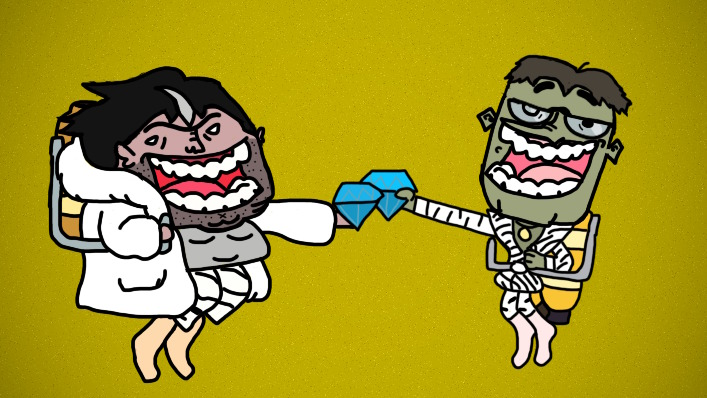
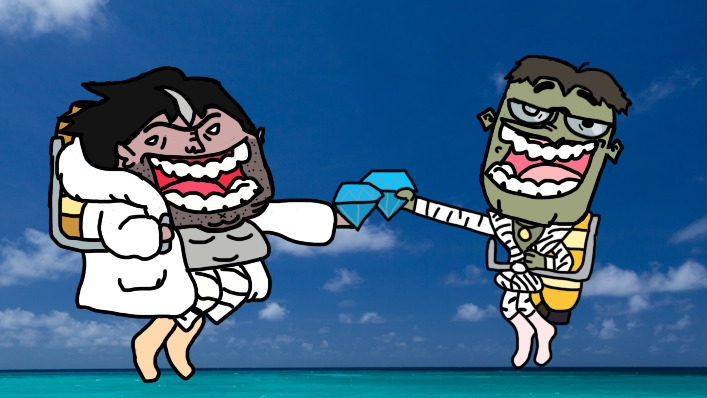
feat: Agregar pantalla de resultado (cancelado)
Tambien se han modificado para que los logros que todavia no esten activo no muestren su información y el diseño final del primer logro

diff --git a/frontend/src/data/achievements.ts b/frontend/src/data/achievements.ts
@@ -6,6 +6,13 @@ export interface Achievement {
 	technicalDescription: string;
 	lore: string;
 	image: string;
+	active: boolean;
+}
+
+export interface UnactiveAchievement {
+	title: string;
+	technicalDescription: string;
+	image: string;
 }
 
 export const ACHIEVEMENTS: Achievement[] = [
@@ -14,7 +21,8 @@ export const ACHIEVEMENTS: Achievement[] = [
 		title: "El Lobo de Chaos INC",
 		technicalDescription: "Gana una partida siendo Becario.",
 		lore: "Ya no tendrás que revisar cada dia si te han puesto pegamento ultra fuerte en tu taza de café.",
-		image: "/achievements/ach_1_sketch.png",
+		image: "/achievements/ach_1.png",
+		active: true,
 	},
 	{
 		id: "ach_win_secretary",
@@ -22,6 +30,7 @@ export const ACHIEVEMENTS: Achievement[] = [
 		technicalDescription: "Gana una partida siendo Secretario.",
 		lore: "Ser la mascota del profesor no te hacía mejor estudiante en la escuela, que lo sepas.",
 		image: "/achievements/ach_2_sketch.png",
+		active: true,
 	},
 	{
 		id: "ach_win_boss",
@@ -29,6 +38,7 @@ export const ACHIEVEMENTS: Achievement[] = [
 		technicalDescription: "Gana una partida siendo Jefe.",
 		lore: "¿Evasión de impuestos, jornadas de 14 horas, maltrato laboral? No pienso hablar sin mi abogado.",
 		image: "/achievements/ach_3_sketch.png",
+		active: true,
 	},
 	{
 		id: "ach_win_unionist",
@@ -36,6 +46,7 @@ export const ACHIEVEMENTS: Achievement[] = [
 		technicalDescription: "Gana una partida siendo Sindicalista.",
 		lore: "Casualmente a nadie le parecia buena idea hacer una huelga japonesa. Se nota la cultura española...",
 		image: "/achievements/ach_placeholder.png",
+		active: true,
 	},
 	{
 		id: "ach_last_unionist",
@@ -44,6 +55,7 @@ export const ACHIEVEMENTS: Achievement[] = [
 			"Gana siendo el último Sindicalista vivo en una partida de 6 jugadores.",
 		lore: "Tus compañeros renunciaron en la batalla por el convenio, pero tú te quedaste hasta el final como un héroe.",
 		image: "/achievements/ach_5_sketch.png",
+		active: true,
 	},
 	{
 		id: "ach_inherited_boss",
@@ -52,6 +64,7 @@ export const ACHIEVEMENTS: Achievement[] = [
 			"Gana una partida habiendo sido ascendido a Jefe Heredado.",
 		lore: "Finalmente podrás enchufar a tus primos en la empresa, la tía Juana ya estaba empezando a insistir demasiado.",
 		image: "/achievements/ach_6_sketch.png",
+		active: true,
 	},
 	{
 		id: "ach_no_passives",
@@ -60,6 +73,7 @@ export const ACHIEVEMENTS: Achievement[] = [
 			"Gana una partida sin haber equipado ninguna habilidad pasiva.",
 		lore: "Las pasivas están sobrevaloradas, no necesitas mas que habilidad y mentalidad de tiburon.",
 		image: "/achievements/ach_placeholder.png",
+		active: false,
 	},
 	{
 		id: "ach_triple_kill",
@@ -67,6 +81,7 @@ export const ACHIEVEMENTS: Achievement[] = [
 		technicalDescription: "Elimina a 3 jugadores en una misma partida.",
 		lore: "Los abogados y empleados de Hacienda te miran con temor.",
 		image: "/achievements/ach_placeholder.png",
+		active: false,
 	},
 	{
 		id: "ach_failed_mass_attack",
@@ -75,6 +90,7 @@ export const ACHIEVEMENTS: Achievement[] = [
 			"Lanza un ataque masivo en una partida de 6 personas y que todos lo esquiven o bloqueen.",
 		lore: "La verdad... No se qué decirte, tienes una suerte horrible.",
 		image: "/achievements/ach_placeholder.png",
+		active: false,
 	},
 	{
 		id: "ach_play_10",
@@ -82,6 +98,7 @@ export const ACHIEVEMENTS: Achievement[] = [
 		technicalDescription: "Juega 10 partidas.",
 		lore: "Parece que le estás cogiendo el gusto a esta empresa.",
 		image: "/achievements/ach_placeholder.png",
+		active: false,
 	},
 	{
 		id: "ach_play_25",
@@ -89,6 +106,7 @@ export const ACHIEVEMENTS: Achievement[] = [
 		technicalDescription: "Juega 25 partidas.",
 		lore: "Ya te has aprendido de memoria las plantas en las que el baño está averiado.",
 		image: "/achievements/ach_placeholder.png",
+		active: false,
 	},
 	{
 		id: "ach_gitana_luck",
@@ -97,6 +115,7 @@ export const ACHIEVEMENTS: Achievement[] = [
 			"Roba una tercera carta con la pasiva 'Buenaventura Gitana' 4 rondas seguidas.",
 		lore: "Los astros se han alineado y en vez de tocarte la lotería, te ha tocado un logro en un juego web. ¡No te pongas triste!",
 		image: "/achievements/ach_placeholder.png",
+		active: false,
 	},
 	{
 		id: "ach_no_defense",
@@ -105,6 +124,7 @@ export const ACHIEVEMENTS: Achievement[] = [
 			"Gana una partida sin haber esquivado o bloqueado ningún ataque.",
 		lore: "Despues de tantos años en el gimnasio, que te lancen un microondas ya ni te afecta.",
 		image: "/achievements/ach_placeholder.png",
+		active: false,
 	},
 	{
 		id: "ach_one_hp_clutch",
@@ -113,5 +133,6 @@ export const ACHIEVEMENTS: Achievement[] = [
 			"Gana una partida habiendo quedado con 1 solo punto de vida.",
 		lore: "Tienes el ojo del tigre o simplemente mucha suerte.",
 		image: "/achievements/ach_placeholder.png",
+		active: false,
 	},
 ];

diff --git a/frontend/src/components/profile/ProfileAchievements.tsx b/frontend/src/components/profile/ProfileAchievements.tsx
@@ -1,7 +1,11 @@
 // src/components/profile/ProfileAchievements.tsx
 
 import { useEffect, useState } from "react";
-import { ACHIEVEMENTS, type Achievement } from "../../data/achievements.ts";
+import {
+	ACHIEVEMENTS,
+	type Achievement,
+	type UnactiveAchievement,
+} from "../../data/achievements.ts";
 import type { UserAchievement } from "../../types/api.ts";
 import styles from "./ProfileAchievements.module.css";
 import viewStyles from "./RegisteredProfileView.module.css";
@@ -19,6 +23,12 @@ export default function ProfileAchievements({
 
 	const getImagePath = (path: string) =>
 		path.startsWith("/") ? path : `/${path}`;
+
+	const unactiveAch: UnactiveAchievement = {
+		title: "Proximamente...",
+		technicalDescription: "¡Estamos trabajando en ello!",
+		image: "/achievements/ach_placeholder.png",
+	};
 
 	const unlockedMap = new Map<string, string>();
 	userAchievements.forEach((ach) => {
@@ -69,12 +79,20 @@ export default function ProfileAchievements({
 								<div
 									key={ach.id}
 									className={styles.achStickerContainer}
-									title={ach.technicalDescription}
+									title={
+										ach.active
+											? ach.technicalDescription
+											: unactiveAch.technicalDescription
+									}
 									onClick={() => setSelectedAchievement(ach)}
 								>
 									<img
-										src={getImagePath(ach.image)}
-										alt={ach.title}
+										src={
+											ach.active
+												? getImagePath(displayImage)
+												: getImagePath(unactiveAch.image)
+										}
+										alt={ach.active ? ach.title : unactiveAch.title}
 										className={styles.achSticker}
 									/>
 								</div>
@@ -85,12 +103,23 @@ export default function ProfileAchievements({
 								<div
 									key={`locked-${ach.id}`}
 									className={styles.lockedStickerContainer}
-									title={ach.technicalDescription}
+									title={
+										ach.active
+											? ach.technicalDescription
+											: unactiveAch.technicalDescription
+									}
 									onClick={() => setSelectedAchievement(ach)}
 								>
 									<img
-										src={displayImage}
-										alt="Bloqueado"
+										src={
+											ach.active
+												? getImagePath(displayImage)
+												: unactiveAch.image
+										}
+										alt={
+											(ach.active ? ach.title : unactiveAch.title) +
+											"(Sin desbloquear)"
+										}
 										className={styles.lockedSticker}
 									/>
 									<div className={styles.lockedOverlay}>
@@ -120,31 +149,41 @@ export default function ProfileAchievements({
 										src={getImagePath(selectedAchievement.image)}
 										alt={selectedAchievement.title}
 										className={
-											isAchievementUnlocked(selectedAchievement.id)
+											isAchievementUnlocked(selectedAchievement.id) || !selectedAchievement.active
 												? styles.modalIcon
-												: `${styles.modalIcon} ${styles.lockedSticker}`
+												: `${styles.lockedSticker}`
 										}
 									/>
 								</div>
 								<div className={styles.modalTextInfo}>
 									<h3 className={styles.modalTitle}>
-										{selectedAchievement.title}
+										{selectedAchievement.active
+											? selectedAchievement.title
+											: unactiveAch.title}
 									</h3>
 									<p className={styles.modalDescription}>
-										{selectedAchievement.technicalDescription}
+										{selectedAchievement.active
+											? selectedAchievement.technicalDescription
+											: unactiveAch.technicalDescription}
 									</p>
 								</div>
 							</div>
 
-							<div className={styles.modalBody}>
-								<p className={styles.modalLore}>"{selectedAchievement.lore}"</p>
-								<p className={styles.modalDate}>
-									REGISTRADO:{" "}
-									{isAchievementUnlocked(selectedAchievement.id)
-										? formatUnlockDate(unlockedMap.get(selectedAchievement.id))
-										: "Sin desbloquear"}
-								</p>
-							</div>
+							{selectedAchievement.active && (
+								<div className={styles.modalBody}>
+									<p className={styles.modalLore}>
+										"{selectedAchievement.lore}"
+									</p>
+									<p className={styles.modalDate}>
+										DESBLOQUEADO:{" "}
+										{isAchievementUnlocked(selectedAchievement.id)
+											? formatUnlockDate(
+													unlockedMap.get(selectedAchievement.id),
+												)
+											: "Por descubrir"}
+									</p>
+								</div>
+							)}
 						</div>
 					</div>
 				)}

diff --git a/frontend/src/data/gameResults.ts b/frontend/src/data/gameResults.ts
@@ -47,7 +47,7 @@ export const RESULT_CONFIG: Record<
 	},
 	canceled: {
 		headline: "¡NUNCA PASA NADA!",
-		image: "/game-result/game_result_placeholder.jpg",
+		image: "/game-result/game_result_cancelled.jpg",
 		subtitle: "También en la sección del tiempo: Nublado",
 		description: `Tras meses de hostilidades, la directiva de Chaos Inc. y el sindicato han firmado un armisticio por puro agotamiento. La empresa retomará su actividad 
         habitual mientras los sindicalistas ya buscan una nueva organización a la que asediar hasta el cierre. Para calmar los ánimos, los huelguistas han sido debidamente 
